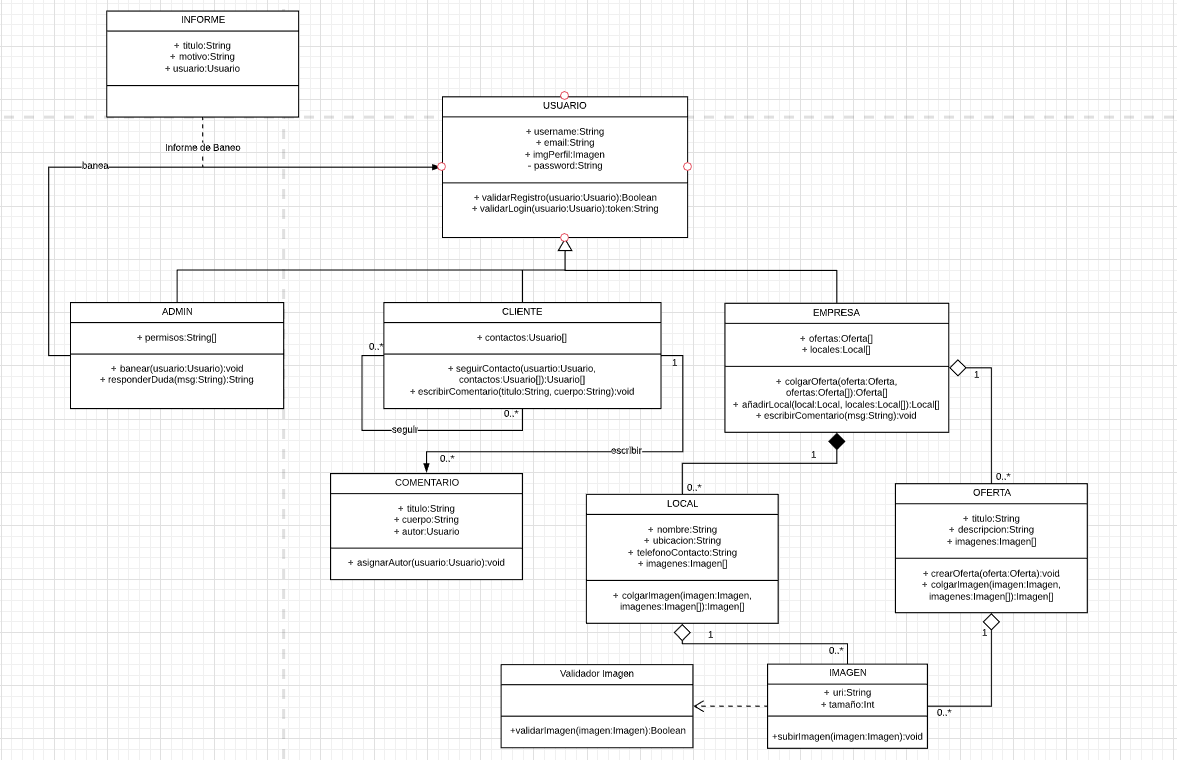
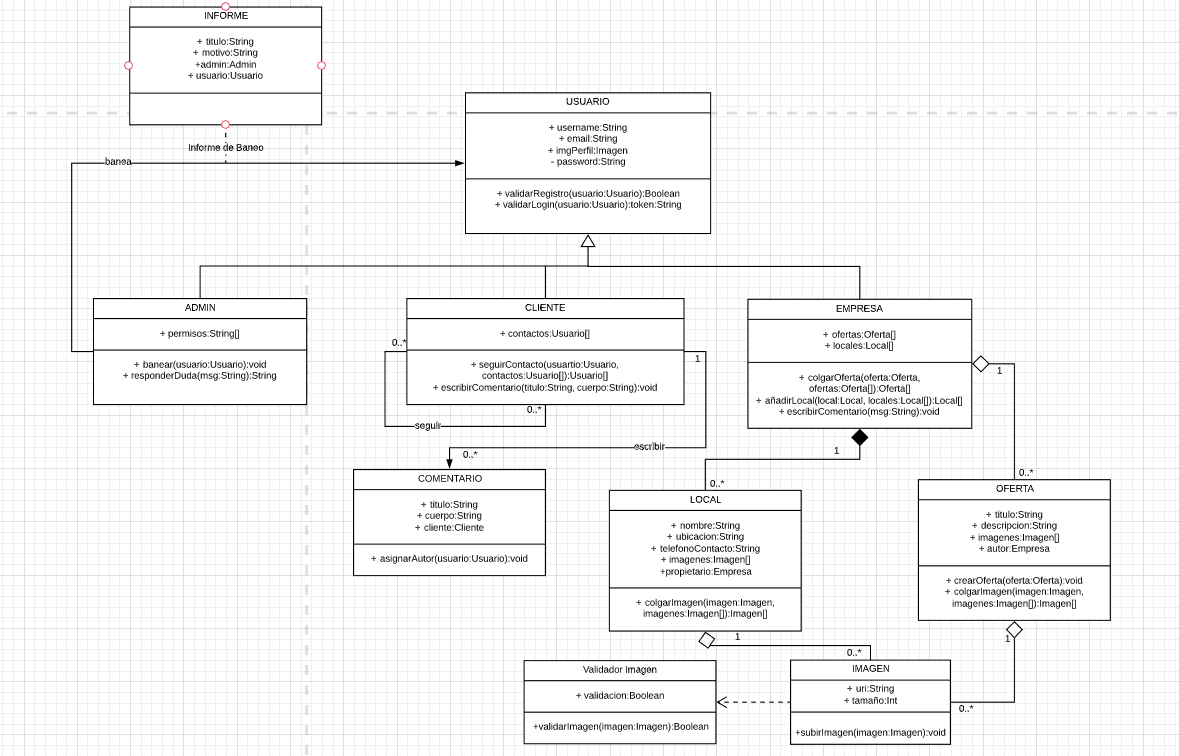
correcciones del Sprint 3 Mario

diff --git a/Sprint3/ProyectosJava/Mario/src/classes/Empresa.java b/Sprint3/ProyectosJava/Mario/src/classes/Empresa.java
@@ -20,12 +20,12 @@ public class Empresa extends Usuario {
     }
 
     public void addLocal(String nombre, String ubicacion, String telefono, ArrayList<Imagen> imagenes){
-        Local local = new Local( nombre, ubicacion, telefono, imagenes );
+        Local local = new Local( nombre, ubicacion, telefono, imagenes, this );
         this.locales.add(local);
     }
 
     public void colgarOferta(String titulo, String descripcion, ArrayList<Imagen> imagenes){
-        Oferta oferta = new Oferta( titulo, descripcion, imagenes );
+        Oferta oferta = new Oferta( titulo, descripcion, imagenes, this );
         this.ofertas.add(oferta);
     }
 

diff --git a/Sprint3/ProyectosJava/Mario/src/classes/Local.java b/Sprint3/ProyectosJava/Mario/src/classes/Local.java
@@ -7,13 +7,15 @@ public class Local {
     public String ubicacion;
     public String telefono;
     public ArrayList<Imagen> imagenes;
+    public Empresa empresa;
 
     public Local () {}
-    public Local (String nombre, String ubicacion, String telefono, ArrayList<Imagen> imagenes) {
+    public Local (String nombre, String ubicacion, String telefono, ArrayList<Imagen> imagenes, Empresa empresa) {
         this.nombre = nombre;
         this.ubicacion = ubicacion;
         this.telefono = telefono;
         this.imagenes = imagenes;
+        this.empresa = empresa;
     } 
 
     public void colgarImagen(Imagen imagen) {

diff --git a/Sprint3/ProyectosJava/Mario/src/classes/Oferta.java b/Sprint3/ProyectosJava/Mario/src/classes/Oferta.java
@@ -6,12 +6,14 @@ public class Oferta {
     public String titulo;
     public String descripcion;
     public ArrayList<Imagen> imagenes;
+    public Empresa empresa;
 
     public Oferta () {}
-    public Oferta (String titulo, String descripcion, ArrayList<Imagen> imagenes){
+    public Oferta (String titulo, String descripcion, ArrayList<Imagen> imagenes, Empresa empresa){
         this.titulo = titulo;
         this.descripcion = descripcion;
         this.imagenes = imagenes;
+        this.empresa = empresa;
     } 
 
     public void colgarImagen(Imagen imagen) {

diff --git a/Sprint3/ProyectosJava/Mario/src/classes/Comentario.java b/Sprint3/ProyectosJava/Mario/src/classes/Comentario.java
@@ -1,9 +1,9 @@
 package classes;
 
 public class Comentario {
+    public Usuario usuario;
     public String titulo;
     public String cuerpo;
-    public String autor;
 
     public Comentario () {}
     public Comentario (String titulo, String cuerpo) {
@@ -12,6 +12,6 @@ public class Comentario {
     }
 
     public void asignarAutor (Usuario usuario) {
-        this.autor = usuario.getUsername();
+        this.usuario = usuario;
     }
 }

diff --git a/Sprint3/ProyectosJava/Mario/src/classes/Informe.java b/Sprint3/ProyectosJava/Mario/src/classes/Informe.java
@@ -4,11 +4,13 @@ public class Informe {
   public String titulo;
   public String motivo;
   public Usuario usuario;
+  public Admin admin;
   
   public Informe () {}
-  public Informe (String titulo, String motivo, Usuario usuario) {
+  public Informe (String titulo, String motivo, Usuario usuario, Admin admin) {
     this.titulo = titulo;
     this.motivo = motivo;
     this.usuario = usuario;
+    this.admin = admin;
   }
 }
